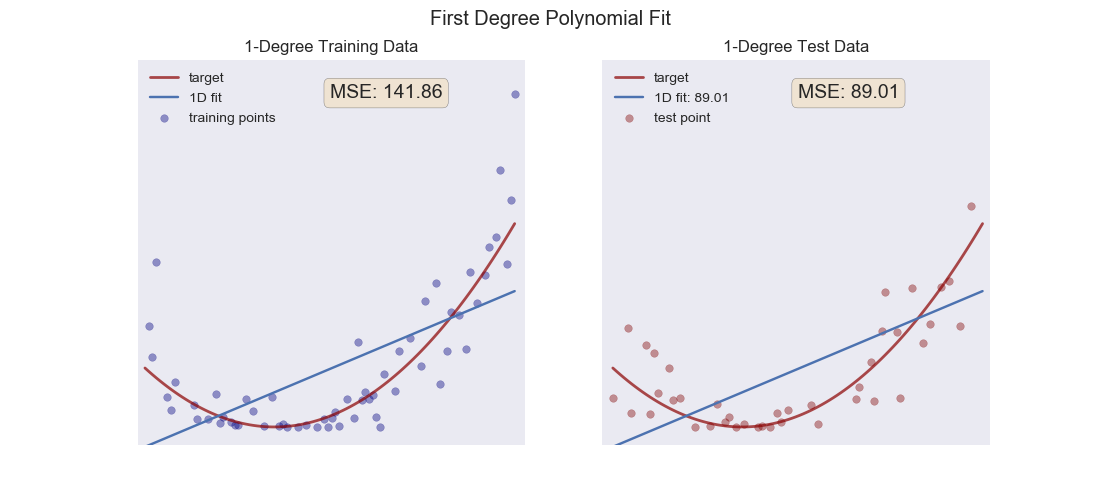
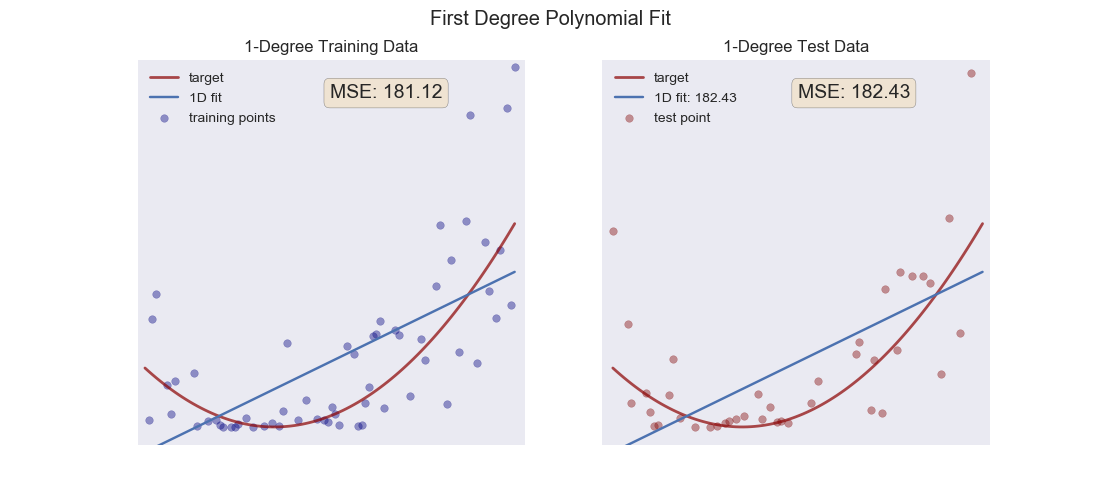
almost done!

diff --git a/fitting.py b/fitting.py
@@ -24,7 +24,7 @@ def poly(x, coef):
 
 def make_new_data():
     x = np.linspace(0, 10, 100)
-    noise = np.random.normal(0, 1, size=len(x), )
+    noise = np.random.normal(0, 1.5, size=len(x), )
     x_noisy = np.add(x, noise)
 
     # create matrix versions of these arrays
@@ -220,6 +220,7 @@ for i in range(runs):
         for k in range(2):
             mean_one_d_coefs.append(np.mean([j[k] for j in one_d_coefs]))
         plt.plot(x_plot, poly(x_plot, mean_one_d_coefs), color='darkblue')
+        plt.title('1st Degree Fit')
     else:
         pass
 
@@ -246,6 +247,7 @@ for i in range(runs):
             mean_two_d_coefs.append(np.mean([j[k] for j in two_d_coefs]))
 
         plt.plot(x_plot, poly(x_plot, mean_two_d_coefs), color='darkblue')
+        plt.title('2nd Degree Fit')
     else:
         pass
 
@@ -265,15 +267,16 @@ for i in range(runs):
     bs_y_10d_fit_test = [poly(j, ten_d_coefs[i]) for j in bs_X_test]
     ten_d_mses.append(mean_squarred_error(bs_y_test, bs_y_10d_fit_test))
 
-    if i == runs - 1 :
+    if i == runs - 1:
         mean_ten_d_coefs = []
         for k in np.arange(11):
             mean_ten_d_coefs.append(np.mean([j[k] for j in ten_d_coefs]))
 
         plt.plot(x_plot, poly(x_plot, mean_ten_d_coefs), color='darkblue')
+        plt.title('10 Degree Fit')
     else:
         pass
-
+plt.suptitle('Bootstrapping Fits')
 plt.savefig('bootstrapped.png')
 plt.clf()
 plt.close('all')
@@ -292,9 +295,55 @@ plt.savefig('boxplots_mse.png')
 plt.close('all')
 
 plt.figure()
-
-plt.hist(mses['one_d'], label='Degree 1', alpha=0.9, bins=10)
-plt.hist(mses['ten_d'], label='Degreee 10', alpha=0.9, bins=20)
-plt.hist(mses['two_d'], label='Degree 2', alpha=0.9, bins=8)
+plt.hist(mses['two_d'], label='Degree 2', alpha=0.8, bins=8)
+plt.hist(mses['one_d'], label='Degree 1', alpha=0.8, bins=10)
+plt.hist(mses['ten_d'], label='Degreee 10', alpha=0.8, bins=20)
 plt.legend(loc='best')
+plt.xlabel('Mean Squared Error')
+plt.ylabel('Count')
 plt.savefig('mse_hists.png')
+plt.close('all')
+
+
+#Now attemping to explore bias-variance tradeoff. Need to plot the MSE vs. the
+#power of the Polynomial
+
+powers = np.linspace(0, 10, 11)
+
+plt.figure()
+mses_train_ = []
+mses_test_ = []
+mses_train_means = []
+mses_test_means = []
+
+for i in range(runs):
+    var_X_test, var_X_train, var_y_test, var_y_train = train_test_split(x_data, y_data, test_size=test_size)
+    mses_train = []
+    mses_test = []
+    for p in powers:
+        coeffiecients = np.polyfit(var_X_train, var_y_train, p)
+        train = [poly(i, coeffiecients) for i in var_X_train]
+        test = [poly(i, coeffiecients) for i in var_X_test]
+        mses_train.append(mean_squarred_error(var_y_train, train))
+        mses_test.append(mean_squarred_error(var_y_test, test))
+
+
+    plt.plot(powers, mses_train, alpha=0.05, color='blue')
+    plt.plot(powers, mses_test, alpha=0.05, color='red')
+    mses_train_.append(mses_train)
+    mses_test_.append(mses_test)
+
+    if i == runs - 1:
+        for k in range(len(powers)):
+            mses_train_means.append(np.mean([j[k] for j in mses_train_]))
+            mses_test_means.append(np.mean([j[k] for j in mses_test_]))
+        plt.plot(powers, mses_train_means, label = 'Mean Training Fit', color='darkblue')
+        plt.plot(powers, mses_test_means, label = 'Mean Testing Fit', color='darkred')
+    else:
+        pass
+
+plt.ylim(0,400)
+plt.ylabel('Mean Squared Error')
+plt.xlabel('Polynomial Degree')
+plt.legend(loc='best')
+plt.savefig('bias_variance.png')
